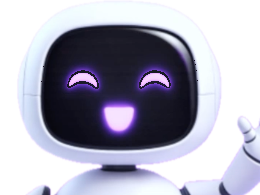
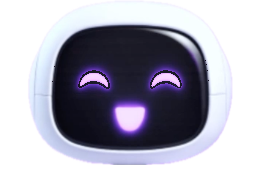
fix(ui): isolate robot face by removing body, hand, and enclosing circle in dock

Changed region(s): [[0.0615, 0.1231, 1.0, 1.0]]

diff --git a/src/components/common/TechnaOrb.tsx b/src/components/common/TechnaOrb.tsx
@@ -216,7 +216,7 @@ export const TechnaOrb: React.FC<TechnaOrbProps> = ({
   // VARIANT: FACE (Floating Button Next to Create Task)
   // ==========================================
   if (variant === 'face') {
-    const headWidth = size * 0.94;
+    const headWidth = size * 1.06;
     const headHeight = headWidth * 0.75; // aspect ratio 260x195
 
     return (
@@ -229,23 +229,9 @@ export const TechnaOrb: React.FC<TechnaOrbProps> = ({
           {
             width: size,
             height: size,
-            borderRadius: size / 2,
           },
         ]}
       >
-        {/* Soft Ambient Radial Violet Glow Behind Head */}
-        <View
-          style={[
-            styles.faceGlowHalo,
-            {
-              width: size * 1.15,
-              height: size * 1.15,
-              borderRadius: (size * 1.15) / 2,
-            },
-          ]}
-          pointerEvents="none"
-        />
-
         {/* Floating Head with Animated Blinking Eyes */}
         <Animated.View
           style={[
@@ -296,14 +282,14 @@ export const TechnaOrb: React.FC<TechnaOrbProps> = ({
 
                 {/* Left Glowing Eye Arch (Arch when open, flattens to sleek eyelid line when blinking) */}
                 <Path
-                  d="M 68,84 C 73,69 86,69 96,84"
+                  d="M 79,84 C 84,69 97,69 107,84"
                   stroke="url(#eyeGlowGrad)"
                   strokeWidth="8"
                   strokeLinecap="round"
                   fill="none"
                 />
                 <Path
-                  d="M 68,84 C 73,69 86,69 96,84"
+                  d="M 79,84 C 84,69 97,69 107,84"
                   stroke="#FFFFFF"
                   strokeWidth="3.5"
                   strokeLinecap="round"
@@ -312,14 +298,14 @@ export const TechnaOrb: React.FC<TechnaOrbProps> = ({
 
                 {/* Right Glowing Eye Arch */}
                 <Path
-                  d="M 141,84 C 151,69 164,69 169,84"
+                  d="M 152,84 C 162,69 175,69 180,84"
                   stroke="url(#eyeGlowGrad)"
                   strokeWidth="8"
                   strokeLinecap="round"
                   fill="none"
                 />
                 <Path
-                  d="M 141,84 C 151,69 164,69 169,84"
+                  d="M 152,84 C 162,69 175,69 180,84"
                   stroke="#FFFFFF"
                   strokeWidth="3.5"
                   strokeLinecap="round"
@@ -507,25 +493,12 @@ const styles = StyleSheet.create({
     zIndex: 3,
   },
 
-  // Face Button Variant Styles
+  // Face Button Variant Styles (Clean Floating Character Face without enclosing circle)
   faceButtonContainer: {
     alignItems: 'center',
     justifyContent: 'center',
-    backgroundColor: 'rgba(26, 18, 42, 0.92)',
-    borderWidth: 1.5,
-    borderColor: 'rgba(192, 132, 252, 0.42)',
-    shadowColor: '#C084FC',
-    shadowOffset: { width: 0, height: 4 },
-    shadowOpacity: 0.55,
-    shadowRadius: 14,
-    elevation: 8,
     position: 'relative',
     overflow: 'visible',
-  },
-  faceGlowHalo: {
-    position: 'absolute',
-    backgroundColor: 'rgba(168, 85, 247, 0.15)',
-    zIndex: 0,
   },
   faceWrapper: {
     alignItems: 'center',
